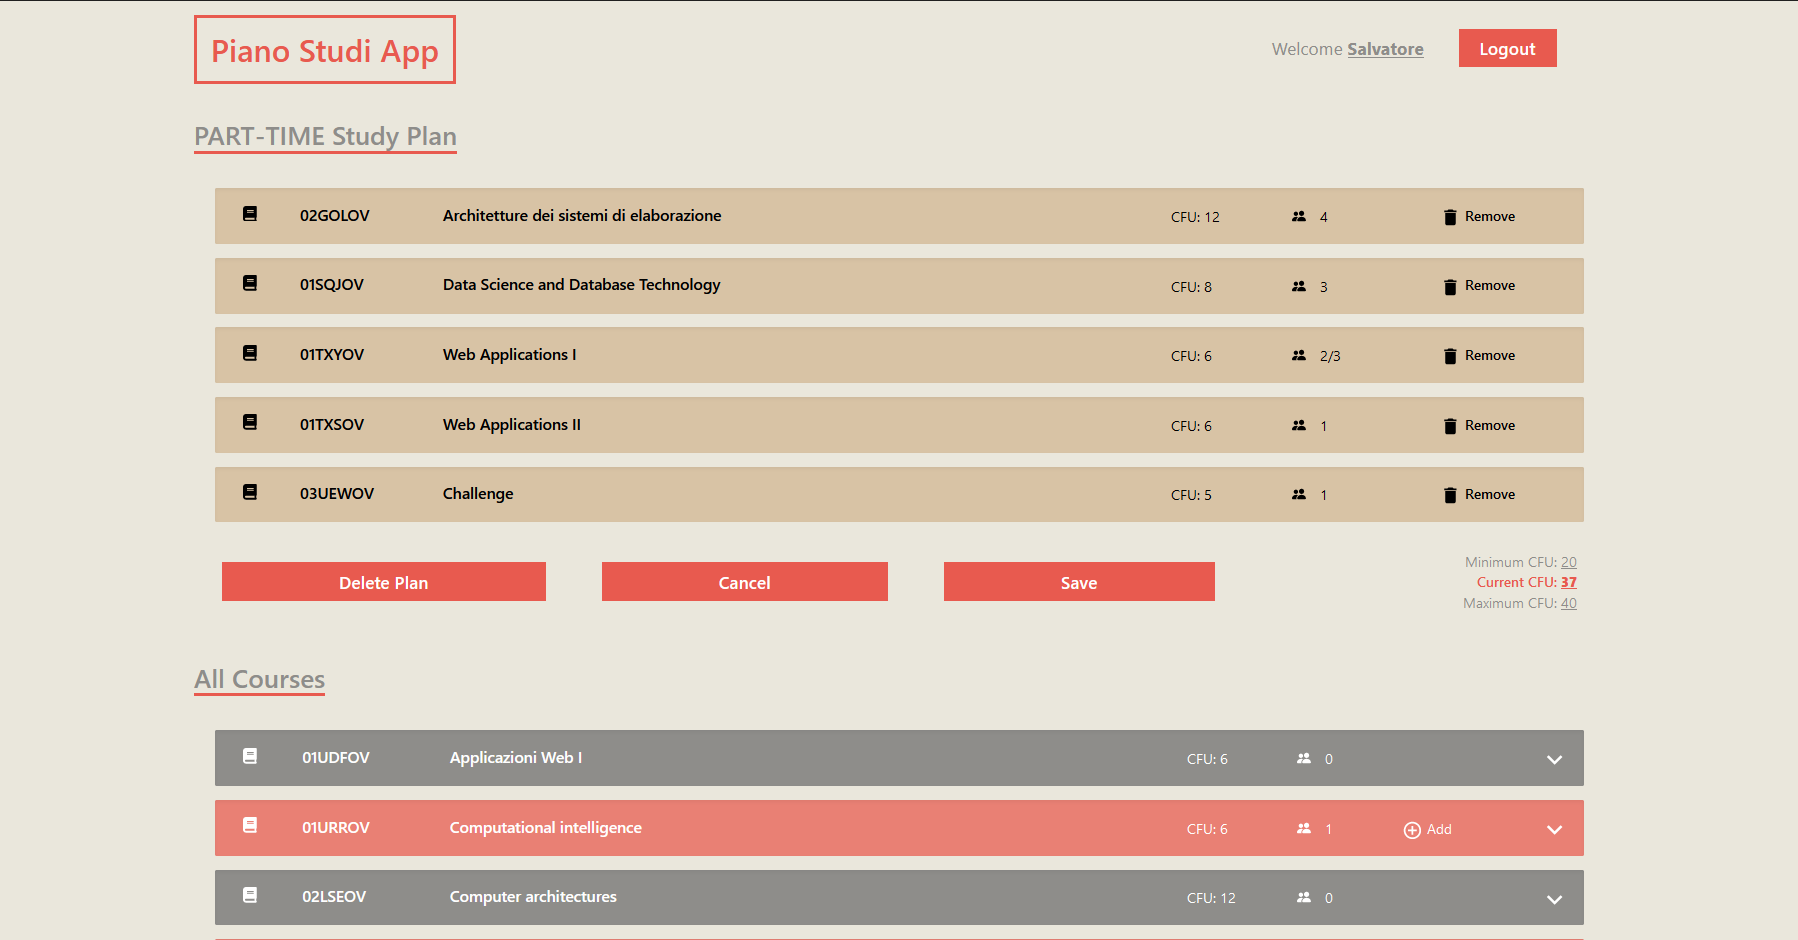
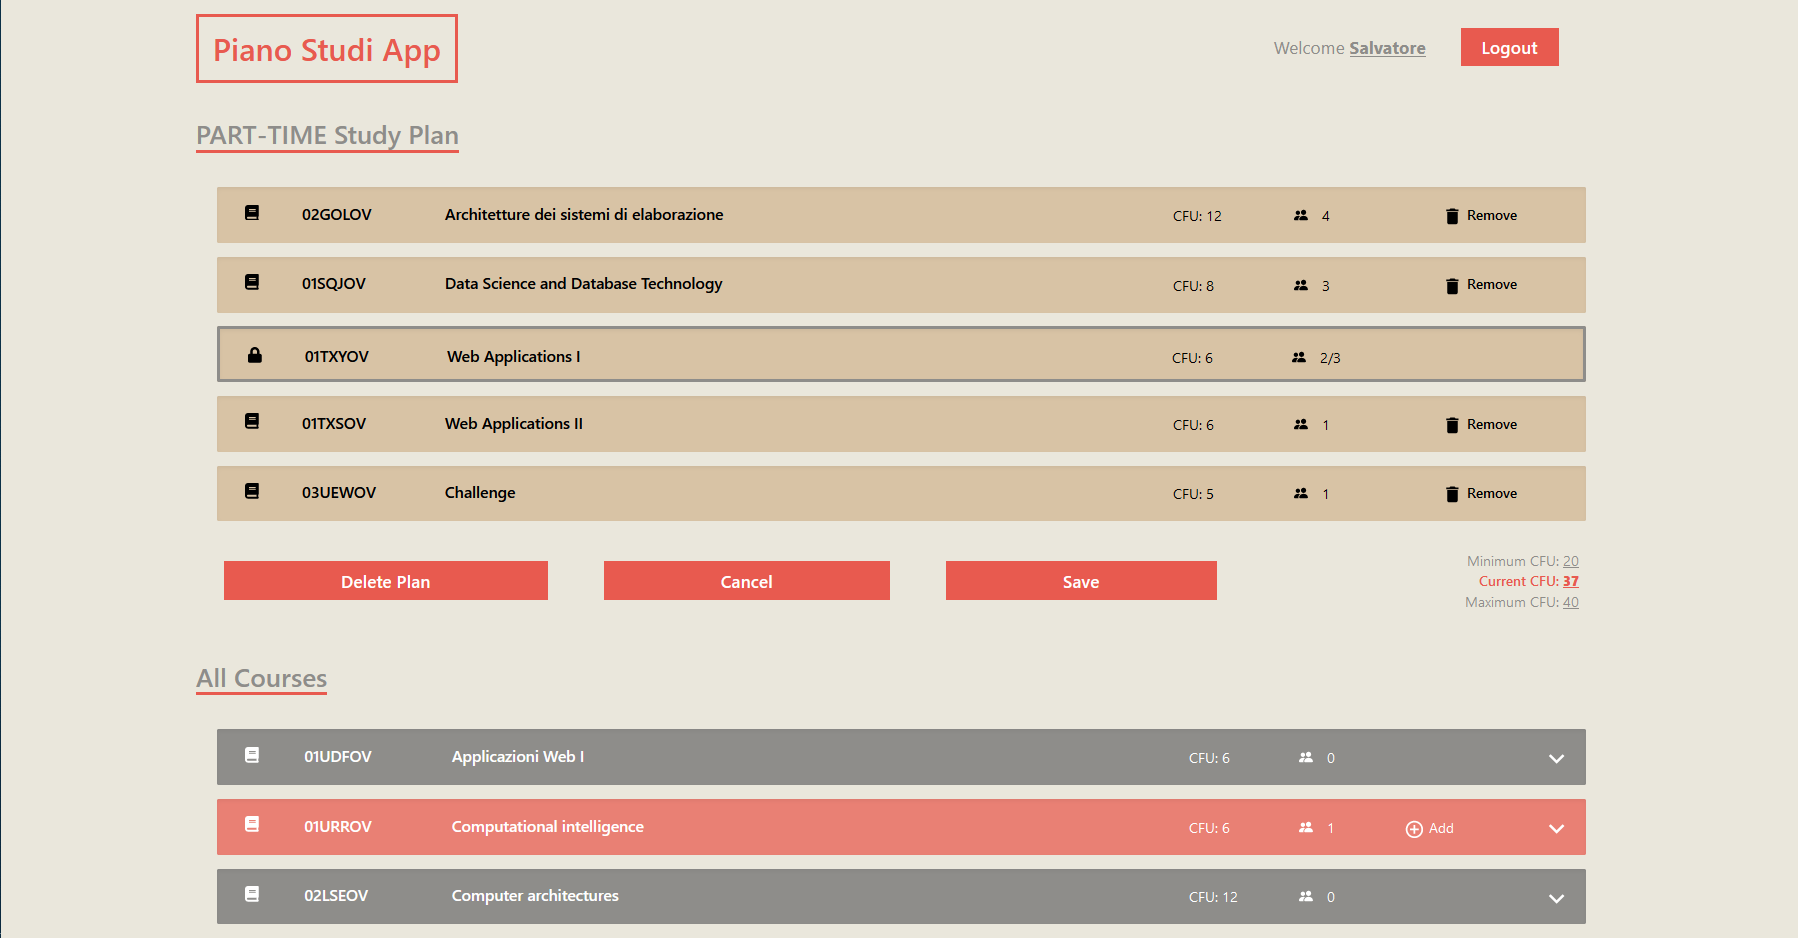
not removable now show reasons

diff --git a/client/src/components/StudyPlan/StudyPlanCourseEntry.jsx b/client/src/components/StudyPlan/StudyPlanCourseEntry.jsx
@@ -1,4 +1,4 @@
-import React from 'react'
+import React, { useEffect, useState } from 'react'
 import PropTypes from 'prop-types';
 
 
@@ -6,10 +6,56 @@ import { FaBook, FaLock } from 'react-icons/fa';
 import { BsPeopleFill } from 'react-icons/bs';
 import {MdDelete} from 'react-icons/md';
 
-function StudyPlanCourseEntry({className, course, editMode, disabled, remove}) {
+function StudyPlanCourseEntry({className, course, editMode, studyPlanCourses, remove}) {
+
+  // Disabled SP Course Management
+  const [disabled, setDisabled] = useState(false); 
+  const [disabledReason, setDisabledReason] = useState(''); 
+  const [disableMessageShown, setDisableMessageShown] = useState(false);
+
+  useEffect(() => {
+    if (editMode) {
+      // ERROR 1 -> Missing preparatory code in study plan
+      let errors = false;
+      let errorsMessage = '';
+
+      const preparatoryFails = studyPlanCourses
+        .filter((spCourse) => spCourse.preparatoryCourseCode === course.code)
+        .map((c) => c.name);
+
+      if (preparatoryFails.length > 0){
+        errors = true;
+        errorsMessage = `Preparatory for: ${preparatoryFails.join(', ')}`;
+      }
+    
+      setDisabled(errors);
+      setDisabledReason(errorsMessage);
+    }
+
+  }, [course.code, editMode, studyPlanCourses])
+  
 
   return (
-    <div className={`${className}`}>
+    <div 
+      className={`${className} relative`}
+      onMouseEnter={() => setDisableMessageShown(true)}
+      onMouseLeave={() => setDisableMessageShown(false)}
+    >
+      {/* 
+        *   DISABLED Reason on Hover
+        */
+      
+        editMode && disabled && disableMessageShown &&
+        <div className='absolute top-0 left-0 h-16 w-3/4 lg:mx-6 md:mx-4 mx-2 mt-4 p-4 rounded-sm
+                        border-4 border-accent-200 border-r-0
+                        bg-background-200 grid grid-cols-course gap-0'
+        >
+          <div className='flex items-center justify-start text-error-200'>
+            <FaLock className='py-1 mx-4 text-2xl'/> <u>{disabledReason}</u>
+          </div>
+        </div>
+      }
+
       {/* 
         *   Main Info Entry
         */}
@@ -52,7 +98,6 @@ function StudyPlanCourseEntry({className, course, editMode, disabled, remove}) {
 StudyPlanCourseEntry.propTypes = {
    course: PropTypes.object.isRequired,
    editMode: PropTypes.bool.isRequired,
-   disabled: PropTypes.bool,
    remove: PropTypes.func,
 }
 

diff --git a/client/src/pages/HomePage.jsx b/client/src/pages/HomePage.jsx
@@ -7,11 +7,12 @@ import CreateStudyPlanModal from '../components/CreateStudyPlanModal';
 import StudyPlanList from '../components/StudyPlan/StudyPlanList';
 import CourseList from '../components/Courses/CourseList';
 
+
+const MIN_CREDITS = { 'part-time': 20, 'full-time': 60 };
+const MAX_CREDITS = { 'part-time': 40, 'full-time': 80 };
+
 function HomePage({isLogged, courses, loading, studyPlanCourses, studentType, createStudyPlan, 
                    deleteStudyPlan, saveStudyPlan }) {
-
-  const MIN_CREDITS = { 'part-time': 20, 'full-time': 60 };
-  const MAX_CREDITS = { 'part-time': 40, 'full-time': 80 };
 
   // Show Create modal flag
   const [showCreateModal, setShowCreateModal] = useState(false);
@@ -24,9 +25,6 @@ function HomePage({isLogged, courses, loading, studyPlanCourses, studentType, cr
 
   // Local Variable Studyplan
   const [localStudyPlan, setLocalStudyPlan] = useState([]);
-
-  // Courses that cannot be added to StudyPlan
-  const [notRemovable, setNotRemovable] = useState([]);
   
   // Current CFU amount in Study plan
   const [currentCFU, setCurrentCFU] = useState([]);
@@ -95,20 +93,6 @@ function HomePage({isLogged, courses, loading, studyPlanCourses, studentType, cr
     }
   }, [editMode, courses, localStudyPlan])
 
-  // Get all Courses that could not be removed
-  useEffect(() => {
-    if (editMode){
-      const notRemovableCoursesCodes = localStudyPlan
-      .filter((course) => {
-        const spPrepCourseCodes = localStudyPlan.map((c) =>c.preparatoryCourseCode);
-        return spPrepCourseCodes.includes(course.code);
-      })
-      .map((course) => course.code);
-
-      setNotRemovable(notRemovableCoursesCodes);
-    }
-  }, [editMode, localStudyPlan])
-
   // Refresh Total CFU Number
   useEffect(() => {
     setCurrentCFU(localStudyPlan.reduce((p,c) => p + c.credits, 0));
@@ -169,7 +153,6 @@ function HomePage({isLogged, courses, loading, studyPlanCourses, studentType, cr
           editMode={editMode}
           studyPlan={localStudyPlan}
           removeAction={removeFromStudyPlan}
-          notRemovable={notRemovable}
         />
 
         {/* FOOTER (StudyPlan Management Buttons) */}

diff --git a/client/src/components/Courses/CourseEntry.jsx b/client/src/components/Courses/CourseEntry.jsx
@@ -19,6 +19,7 @@ function CourseEntry({className, course, studyPlanCourses, editMode, add}) {
   const [detailsLoaded, setDetailsLoaded] = useState(false); 
   const [courseDetails, setCourseDetails] = useState({}); 
   
+  // Disabled Course Management
   const [disabled, setDisabled] = useState(false); 
   const [disabledReason, setDisabledReason] = useState(''); 
   const [disableMessageShown, setDisableMessageShown] = useState(false);
@@ -109,7 +110,7 @@ function CourseEntry({className, course, studyPlanCourses, editMode, add}) {
         <div className='absolute top-0 left-0 h-16 w-3/4 lg:mx-6 md:mx-4 mx-2 mt-4 p-4 rounded-sm
                         bg-disabled-100 grid grid-cols-course gap-0'
         >
-          <div className='flex items-center justify-center text-paragraph-100'>
+          <div className='flex items-center justify-start text-paragraph-100'>
             <FaLock className='py-1 mx-4 text-2xl'/> {disabledReason}
           </div>
         </div>
@@ -180,8 +181,8 @@ function CourseEntry({className, course, studyPlanCourses, editMode, add}) {
 
 CourseEntry.propTypes = {
    course: PropTypes.object.isRequired,
+   studyPlanCourses: PropTypes.array.isRequired,
    editMode: PropTypes.bool,
-   disabled: PropTypes.bool,
    add: PropTypes.func,
 }
 

diff --git a/client/src/components/StudyPlan/StudyPlanList.jsx b/client/src/components/StudyPlan/StudyPlanList.jsx
@@ -3,7 +3,7 @@ import PropTypes from 'prop-types';
 
 import StudyPlanCourseEntry from './StudyPlanCourseEntry'
 
-function StudyPlanList({studyPlan, loading, editMode, removeAction, notRemovable}) {
+function StudyPlanList({studyPlan, loading, editMode, removeAction}) {
   return (
     <div className='w-full h-3/4 flex flex-col justify-start align-middle'>
       { 
@@ -15,7 +15,7 @@ function StudyPlanList({studyPlan, loading, editMode, removeAction, notRemovable
                 key={course.code} 
                 course={course} 
                 remove={removeAction} 
-                disabled={notRemovable.includes(course.code)}
+                studyPlanCourses={studyPlan}
                 editMode={editMode}
               />
             )
@@ -30,7 +30,6 @@ StudyPlanList.propTypes = {
    studyPlan: PropTypes.array.isRequired,
    loading: PropTypes.bool.isRequired,
    editMode: PropTypes.bool.isRequired,
-   notRemovable: PropTypes.array.isRequired,
    removeAction: PropTypes.func.isRequired,
 }
 

diff --git a/ROADMAP.md b/ROADMAP.md
@@ -56,7 +56,7 @@
 
 - [x] Cancel SHOULD reset study plan to previous version
 - [x] Visualizzazione lista IN ORDINE ALFABETICO!
-- [ ] Indicare la ragione per non poter aggiungere/rimuovere un corso
+- [x] Indicare la ragione per non poter aggiungere/rimuovere un corso
 - [x] User without courses login not updating if courses already presents
 - [ ] Error Toasts in HomePage
 - [x] Icons for add and remove courses
